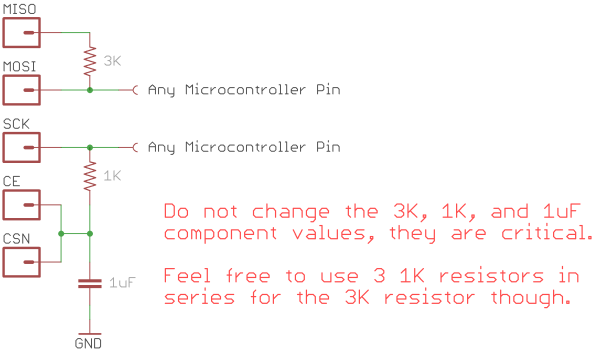
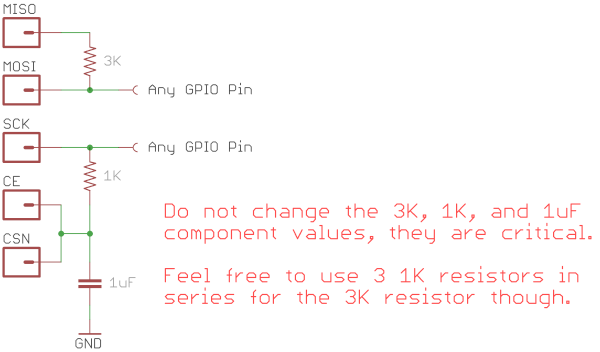
Comment cleanup

Changed region(s): [[0.3, 0.2188, 0.51, 0.2812], [0.3, 0.375, 0.57, 0.4375], [0.54, 0.25, 0.57, 0.2812]]

diff --git a/README.md b/README.md
@@ -91,9 +91,9 @@ void loop()
 Radio MISO -> Arduino 12 MISO
 Radio MOSI -> Arduino 11 MOSI
 Radio SCK  -> Arduino 13 SCK
-Radio CE   -> Any Arduino pin (pin 10 is recommended)
-Radio CSN  -> Any Arduino pin (can be same as CE)
-Radio IRQ  -> Any Arduino pin (optional)
+Radio CE   -> Any GPIO Pin (can be same as CSN)
+Radio CSN  -> Any GPIO Pin (pin 10 recommended)
+Radio IRQ  -> Any GPIO Pin (optional)
 ```
 ![ATmega328 Pinout](https://github.com/dparson55/NRFLite/raw/master/extras/ATmega328_pinout_small.jpg)
 
@@ -102,9 +102,9 @@ Radio IRQ  -> Any Arduino pin (optional)
 Radio MISO -> Physical Pin 7, Arduino 6
 Radio MOSI -> Physical Pin 8, Arduino 5
 Radio SCK  -> Physical Pin 9, Arduino 4
-Radio CE   -> Any Arduino pin
-Radio CSN  -> Any Arduino pin (can be same as CE)
-Radio IRQ  -> Any Arduino pin (optional)
+Radio CE   -> Any GPIO Pin (can be same as CSN)
+Radio CSN  -> Any GPIO Pin
+Radio IRQ  -> Any GPIO Pin (optional)
 ```
 ![ATtiny84 Pinout](https://github.com/dparson55/NRFLite/raw/master/extras/ATtiny84_pinout_small.png)
 
@@ -113,8 +113,8 @@ Radio IRQ  -> Any Arduino pin (optional)
 Radio MISO -> Physical Pin 5, Arduino 0
 Radio MOSI -> Physical Pin 6, Arduino 1
 Radio SCK  -> Physical Pin 7, Arduino 2
-Radio CE   -> Any Arduino pin
-Radio CSN  -> Any Arduino pin (can be same as CE)
-Radio IRQ  -> Any Arduino pin (optional)
+Radio CE   -> Any GPIO Pin (can be same as CSN)
+Radio CSN  -> Any GPIO Pin
+Radio IRQ  -> Any GPIO Pin (optional)
 ```
 ![ATtiny85 Pinout](https://github.com/dparson55/NRFLite/raw/master/extras/ATtiny85_pinout_small.png)
